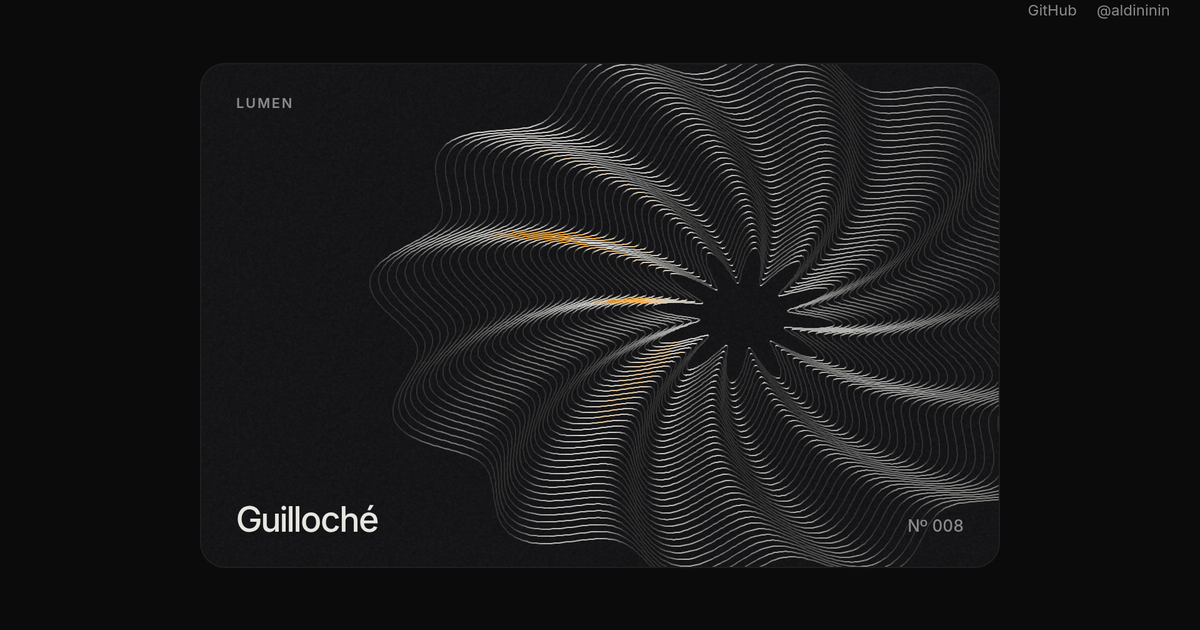
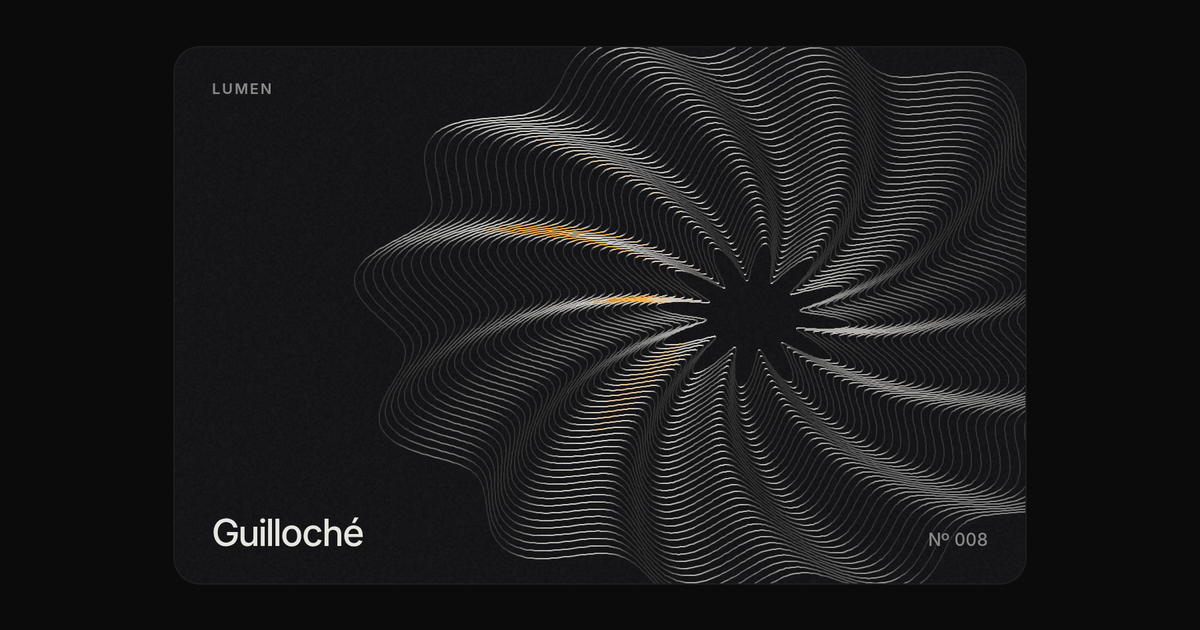
fix: crop the share image and finish the compose card

diff --git a/pieces/008-guilloche/android/Guilloche.kt b/pieces/008-guilloche/android/Guilloche.kt
@@ -7,8 +7,8 @@ import android.content.Context
 import android.provider.Settings
 import android.view.InputDevice
 import androidx.compose.foundation.Canvas
-import androidx.compose.foundation.Image
 import androidx.compose.foundation.background
+import androidx.compose.foundation.border
 import androidx.compose.foundation.layout.Box
 import androidx.compose.foundation.layout.BoxWithConstraints
 import androidx.compose.foundation.layout.Row
@@ -30,19 +30,21 @@ import androidx.compose.ui.Modifier
 import androidx.compose.ui.draw.clip
 import androidx.compose.ui.geometry.RoundRect
 import androidx.compose.ui.graphics.Color
+import androidx.compose.ui.graphics.ImageBitmap
 import androidx.compose.ui.graphics.Path
 import androidx.compose.ui.graphics.drawscope.Stroke
 import androidx.compose.ui.graphics.drawscope.clipPath
 import androidx.compose.ui.input.pointer.PointerEventType
 import androidx.compose.ui.input.pointer.PointerType
 import androidx.compose.ui.input.pointer.pointerInput
-import androidx.compose.ui.layout.ContentScale
 import androidx.compose.ui.platform.LocalContext
 import androidx.compose.ui.platform.LocalDensity
-import androidx.compose.ui.res.painterResource
+import androidx.compose.ui.res.imageResource
 import androidx.compose.ui.text.font.Font
 import androidx.compose.ui.text.font.FontFamily
 import androidx.compose.ui.text.font.FontWeight
+import androidx.compose.ui.unit.IntOffset
+import androidx.compose.ui.unit.IntSize
 import androidx.compose.ui.unit.dp
 import androidx.compose.ui.unit.em
 import androidx.compose.ui.unit.sp
@@ -428,6 +430,7 @@ fun Guilloche(modifier: Modifier = Modifier) {
                 .width(cardW)
                 .height(cardH)
                 .alpha(fade)
+                .border(1.dp, Color(1f, 1f, 1f, 0.06f), RoundedCornerShape(20.dp))
                 .clip(RoundedCornerShape(20.dp))
                 .background(GL.face)
         ) {
@@ -467,12 +470,25 @@ fun Guilloche(modifier: Modifier = Modifier) {
                     }
                 }
             }
-            Image(
-                painterResource(R.drawable.grain),
-                contentDescription = null,
-                modifier = Modifier.fillMaxSize().alpha(0.03f),
-                contentScale = ContentScale.Crop
-            )
+            val grain = ImageBitmap.imageResource(R.drawable.grain)
+            Canvas(Modifier.fillMaxSize()) {
+                val tile = 128.dp.toPx()
+                val dst = tile.roundToInt().coerceAtLeast(1)
+                var y = 0f
+                while (y < size.height) {
+                    var x = 0f
+                    while (x < size.width) {
+                        drawImage(
+                            grain,
+                            dstOffset = IntOffset(x.roundToInt(), y.roundToInt()),
+                            dstSize = IntSize(dst, dst),
+                            alpha = 0.03f
+                        )
+                        x += tile
+                    }
+                    y += tile
+                }
+            }
             Text(
                 "LUMEN",
                 color = GL.sub,
